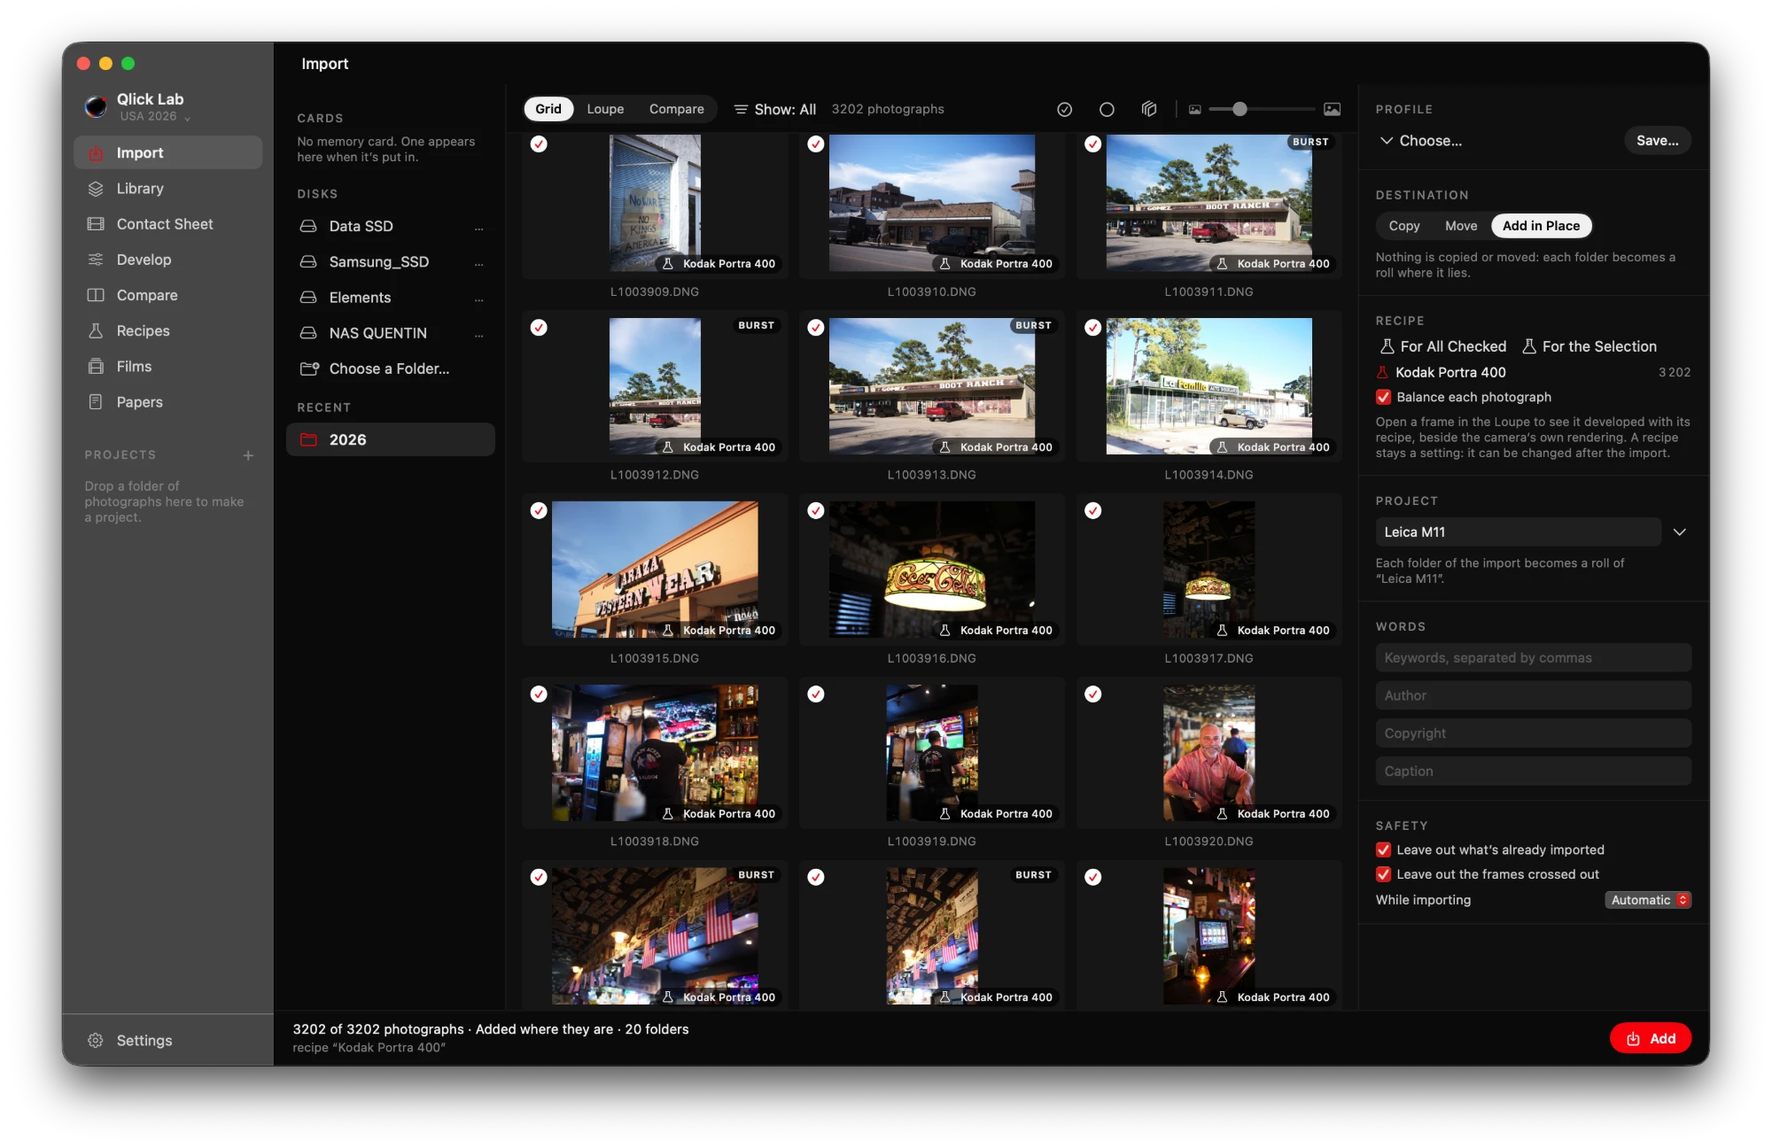
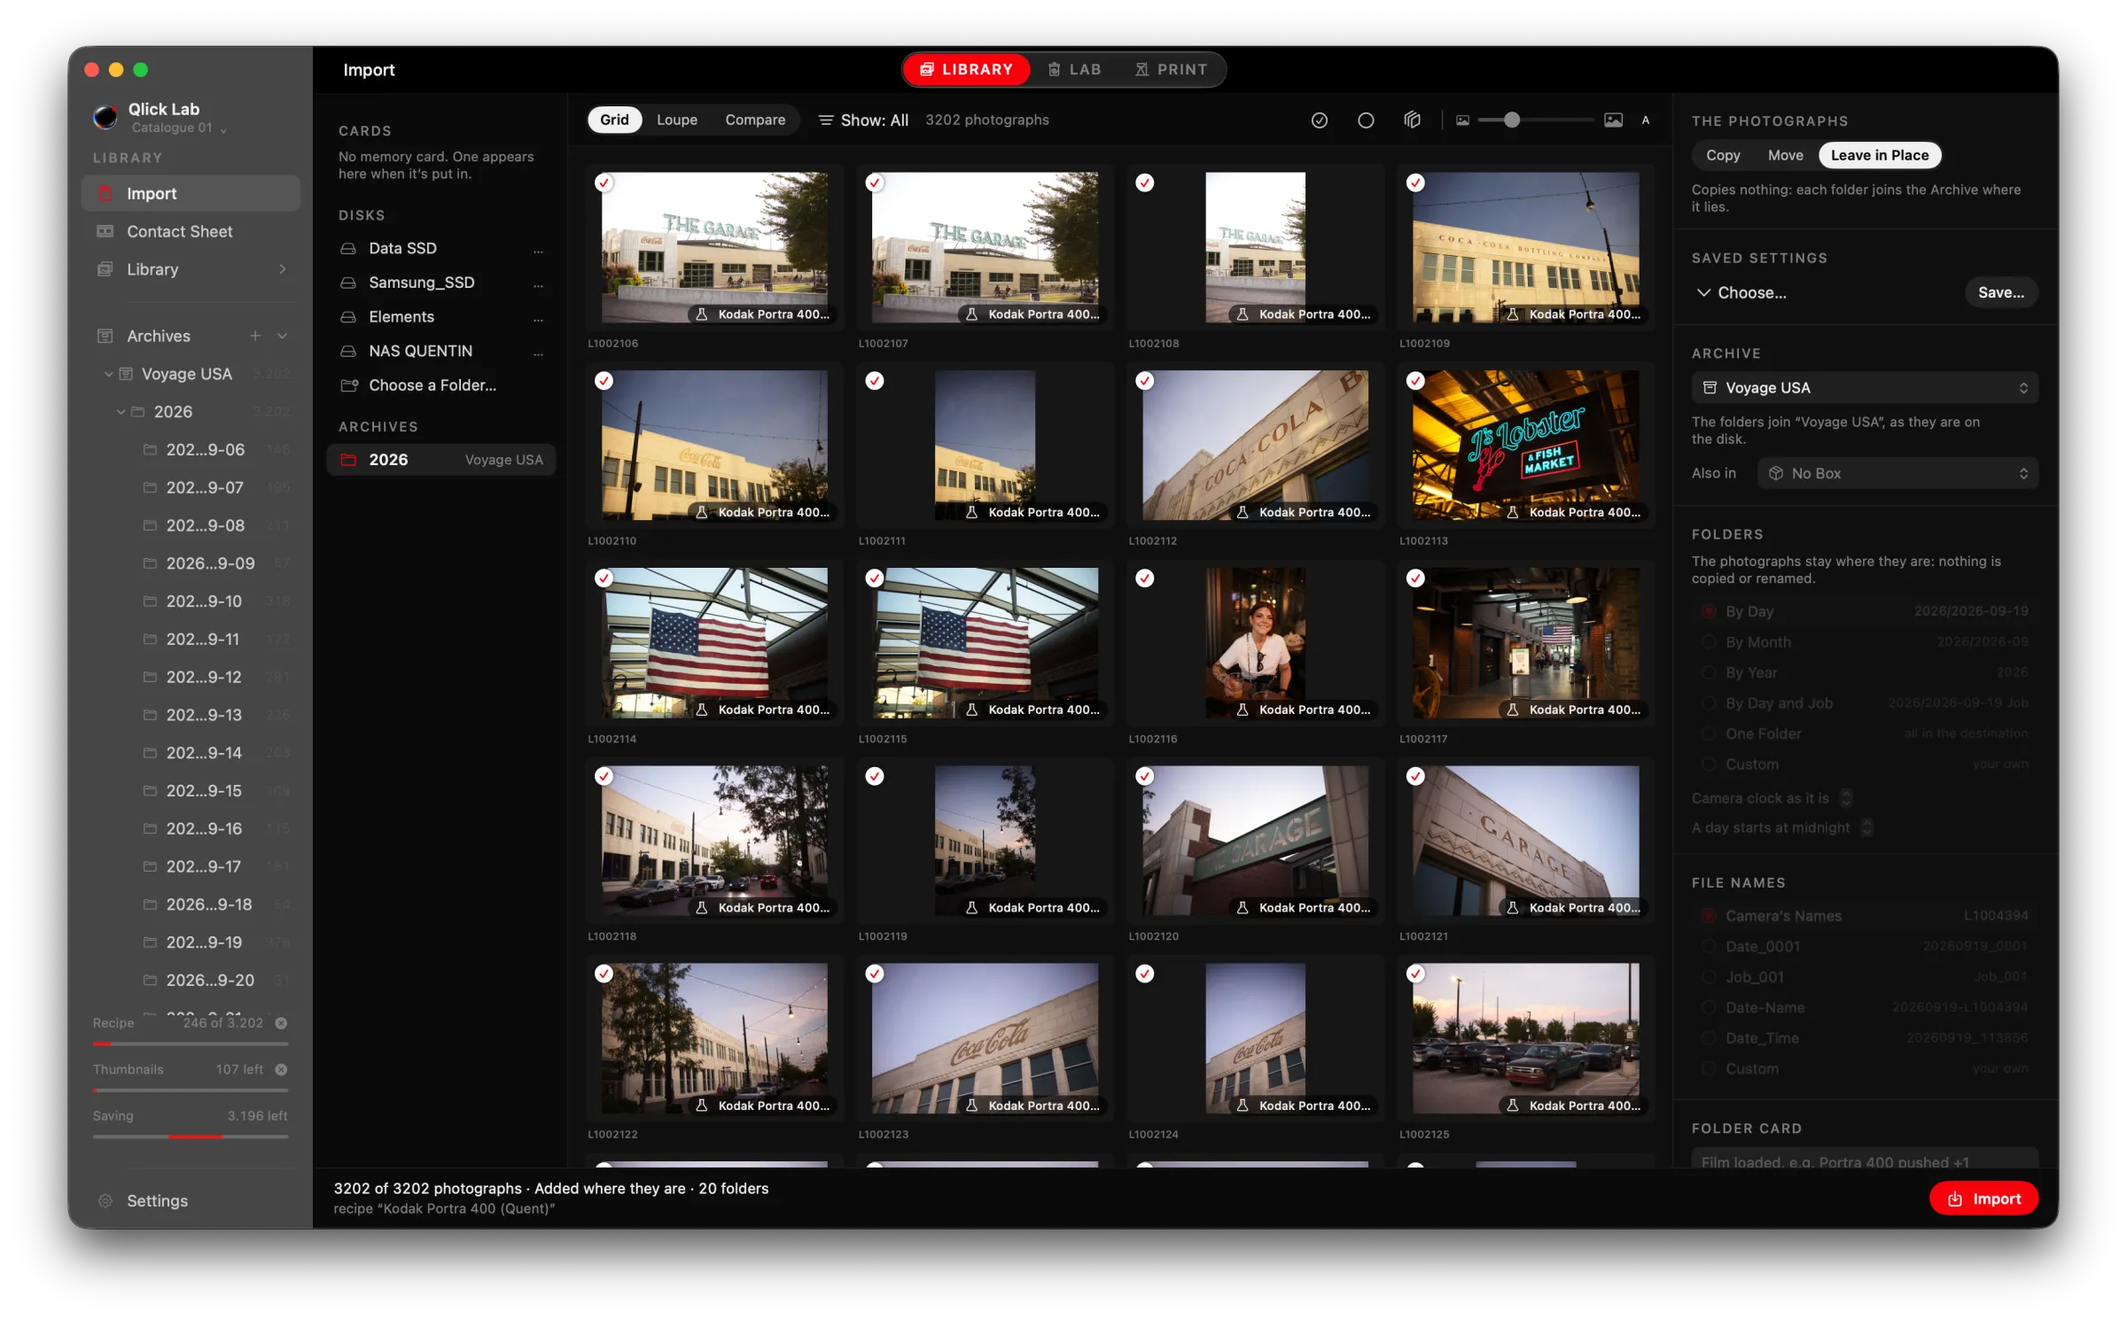
Qlick Lab 0.2.0: the README redone for the three parts, the Library's catalogues, Archives, Boxes and Rolls, with new screenshots (Liquid Glass and solid surfaces); the changelog

Changed region(s): [[0.031, 0.0309, 0.992, 0.9568]]

diff --git a/README.md b/README.md
@@ -5,8 +5,8 @@
 <h1 align="center">Qlick Lab</h1>
 
 <p align="center">
-  <b>Develop your digital photographs as if they were film.</b><br>
-  A free, open-source darkroom for macOS.
+  <b>A film lab for your digital photographs.</b><br>
+  Free and open source, for macOS.
 </p>
 
 <p align="center">
@@ -17,65 +17,145 @@
 </p>
 
 <p align="center">
-  <img src="docs/screenshots/develop.webp" alt="Qlick Lab developing a Leica M11 DNG on Kodak Portra 400, with the roll's marked frames in the film strip below">
+  <img src="docs/screenshots/develop.webp" alt="Qlick Lab developing a Leica M11 DNG on Kodak Portra 400, printed on Kodak Portra Endura paper">
 </p>
 
-Qlick Lab treats each digital photograph like a frame of film. It doesn't lay a filter on top. It
-**develops the picture**: the light goes through a simulated film stock (its dyes, grain and halation), is printed on a
-simulated paper, and comes out looking printed, not "filtered to look like it".
+Qlick Lab develops your digital photographs the way a film lab develops negatives. It doesn't lay a filter over
+the picture: the light of each RAW file goes through a simulated film stock (its dyes, its grain, its halation), is
+printed on a simulated paper, and comes out looking like a print. The simulation is spectral, built from the
+manufacturers' published data, and runs on the Mac's GPU.
 
-The film simulation is [spektrafilm](https://github.com/andreavolpato/spektrafilm), Andrea Volpato's spectral model of
-film and paper, running on the GPU. Around it, Qlick Lab is built like a real lab: you load rolls, mark the contact
-sheet with a red grease pencil, compare frames, develop the keepers and print.
+Around that engine, the app is organised like a real lab, from the roll that comes in to the print that goes out:
+you load your rolls, mark the contact sheet with a red grease pencil, develop the keepers and print.
 
-## What it does
+**What it is not:** a general photo editor. There are no layers, no masks and no retouching brushes. Qlick Lab does
+one thing, turning digital RAW files into film, and keeps the gestures of a physical lab while doing it.
+
+## Three parts: Library, Lab, Print
+
+Everything in the app belongs to one of three parts, chosen with the switch at the top of the window
+(**⌘1**, **⌘2**, **⌘3**). The sidebar shows only what the part needs, and each part comes back to where you left it.
+
+| Part | What happens there |
+|---|---|
+| **Library** | Import, the contact sheet, the Archives and the Boxes: bringing photographs in, sorting and marking them. |
+| **Lab** | Develop, Compare, Recipes and Stocks: choosing a film and a paper, and developing. |
+| **Print** | Export: the photograph as it will be printed, its colour space, its size, and the file. |
+
+From Develop, **G** (or the toggle at the top of the toolbar) switches to the contact sheet of what you're working
+on, and back.
+
+<p align="center">
+  <img src="docs/screenshots/contact-sheet.webp" width="32%" alt="Library: the roll Road 66 as a contact sheet, frames circled and crossed out in red pencil">
+  <img src="docs/screenshots/develop.webp" width="32%" alt="Lab: developing a frame on Kodak Portra 400">
+  <img src="docs/screenshots/print.webp" width="32%" alt="Print: the export panel with the colour space, the gamut and the image size">
+</p>
+
+## The Library: catalogues, Archives, Boxes and Rolls
+
+Your photographs stay where they are on your disks. The Library is a way of looking at them and sorting them, and
+**the app never moves, renames or deletes a photograph** on its own. The two exceptions are both explicit: an import
+that you ask to copy or move, and "Delete from Disk", which asks twice.
+
+- **A catalogue** (`.qlicklab`) holds one body of work: its Archives, its Boxes, its Rolls and its settings. One
+  catalogue is open at a time. **File › New Catalog**, **Open Catalog** and **Close Catalog** (⌥⇧⌘W) switch between
+  them, and closing one leaves the lab empty without quitting.
+- **Archives** are where the photographs live. An Archive is one subject you imported ("Voyage USA", "Leica M11"), and
+  it shows its folders exactly as they are on the disk, at every depth, kept up to date as the disk changes. It's a
+  read-only view: you never sort inside an Archive, you look at it. A disk that is unplugged or a network share that
+  stops answering is set aside without freezing the lab, and **Locate Folder…** points a folder that moved to its new place.
+- **Boxes** are where you sort. A Box gathers photographs from any Archive, and Boxes nest to any depth
+  ("USA 2026" › "Road 66"). Nothing is copied: a photograph can sit in as many Boxes as you like.
+- **Rolls** live inside Boxes and hold a sequence of frames, in your own order. A Roll can carry a film stock or a
+  recipe for all its frames. A **Smart Roll** fills itself from rules (rating, film, camera, lens, ISO, dates,
+  keywords…).
+
+Everything is sorted by drag and drop. Photographs dragged from one Box to another move, and **⌥** copies them. A
+folder of an Archive dropped on a Box becomes a Roll. Each gesture says what it will do while you drag and is undone
+with one ⌘Z.
+
+<p align="center">
+  <img src="docs/screenshots/boxes.webp" alt="The Box USA 2026, with the Smart Roll Leica M11 and the Roll Road 66 as film cartridges">
+</p>
+
+### Import
+
+- From a memory card, a disk or a network share. Choose to **Copy**, **Move** or **Leave in Place**: in place, the
+  folders simply join an Archive as they are.
+- Every import goes into an Archive (an existing one or a new one), and can also go into a Box or a Roll.
+- Folders by day, month, year or your own pattern, file names from the camera or your own pattern, with an example
+  line before anything is written. Duplicates and unreadable files are flagged.
+- A recipe can be applied as the photographs come in. They are there at once, and their previews are made in the
+  background.
+- A journal keeps the import safe if it's interrupted.
+
+<p align="center">
+  <img src="docs/screenshots/import.webp" width="49%" alt="Import: 3,202 photographs left in place, joining the Archive Voyage USA with a recipe">
+  <img src="docs/screenshots/import-boxes.webp" width="49%" alt="The same import, with the Boxes USA 2026, Leica M11 and Road 66 in the sidebar">
+</p>
 
 ### The contact sheet
-- Your folder becomes a **roll of 135 film**: strips with sprocket holes, frame numbers and the stock's name on the edge.
-- **Mark it like a photographer does**: click to circle a frame in red pencil, ⌥-click to cross it out, drag to mark a
-  series. Rate 0–5, filter by picks, rejects or unrated.
-- Three layouts (film strips, tight strips, large frames with their facts), a light table, a loupe.
-- **Print it**: the sheet as a vector PDF, paginated (A4, A3, Letter, 8 × 10, 24 × 30), with or without your marks.
+
+- Each folder, Box or Roll becomes **135 film**: strips with sprocket holes, frame numbers and file names on the edge.
+- **Mark it as a photographer does**: click to circle a frame in red pencil, ⌥-click to cross it out, drag across a
+  series. P / X / U to pick, reject or unmark, 0–5 to rate, ⇧ with a key to mark and move on.
+- Search by field (`rating:>=3 film:portra camera:m11 iso:>800 date:2026-09`), filters by period, film, camera and lens,
+  keywords, titles and captions, stacks of bursts.
+- Four layouts (Classic, Compact, Detail, Grid), a light table and a loupe.
+- **Print the sheet**: a vector PDF on A4, A3, Letter, 8 × 10 or 24 × 30, black or white paper, with your pencil marks.
+- **Remove…** takes photographs out of a Box or out of the catalogue. Files are deleted from the disk only if you say
+  so, twice.
 
 <p align="center">
-  <img src="docs/screenshots/contact-sheet.webp" width="49%" alt="A roll as a contact sheet, frames circled and crossed out in red pencil">
-  <img src="docs/screenshots/print.webp" width="49%" alt="Printing the contact sheet to PDF">
+  <img src="docs/screenshots/print-contact-sheet.webp" alt="A printable contact sheet of the roll Road 66, with its red pencil marks">
 </p>
 
-### Development
-- **[62 film stocks and papers](#film-stocks-and-papers)**: Portra, Ektar, Gold, Tri-X, Velvia, CineStill and more, each with its own
-  measured curves, where it comes from and how far it can be trusted. Every stock shows a preview developed on *your*
-  photograph.
-- Exposure, grain, halation, glare, DIR couplers, the print and the scan, crop, straighten, 35 mm borders.
-- **Every slider is live**: the GPU redraws as you move it.
-- **Recipes**: a look saved once, applied to a whole selection in one step. They use spektrafilm's own preset format.
-- **Versions**: several interpretations of one photograph, side by side. None replaces the others.
-- **Compare**: neighbouring frames, stocks, recipes, versions or before/after, with linked zoom and pan. Each view is
-  a real development, not an approximation.
+## The Lab: developing
+
+- **[62 film stocks and papers](#film-stocks-and-papers)**: Portra, Ektar, Gold, Tri-X, Velvia, CineStill and more,
+  each with its measured curves, where it comes from and how far it can be trusted. Every stock shows a preview
+  developed on *your* photograph.
+- **The film card** at the top of the panel: the film, the paper it's printed on, the recipe.
+- **Develop**: white balance, brightness matched to the camera, tone, colour, detail, crop and Auto Straighten.
+- **Emulsion**: the film's curves and couplers, grain, halation from the highlights, diffusion, chromatic aberration.
+  Grain and halation have their own presets.
+- **Every slider is live**: the GPU redraws as you move it, and the next frames are developed ahead as you step through
+  a roll.
+- **Recipes**: a look saved once, applied to a whole selection, a Roll or an import in one step. Share them as a
+  `.qlickrecipes` bundle.
+- **Versions** of one photograph side by side, and **Compare** across frames, stocks, recipes or before/after, with
+  linked zoom.
 
 <p align="center">
-  <img src="docs/screenshots/develop-inspector.webp" alt="Developing on Kodak Portra 400: white balance, brightness, tone and colour in a Liquid Glass panel">
+  <img src="docs/screenshots/emulsion-grain.webp" alt="The Emulsion tab at 53 %: Kodak Portra 400's grain on an old car">
 </p>
 
-### Library, import and export
-- **Catalogues, Archives and Boxes**: an Archive shows its folders as they are on the disk; Boxes gather photographs
-  from any Archive. Nothing is copied and no original is ever changed.
-- **Import** from a memory card, with a journal that survives an interruption.
-- RAW files from most cameras (Apple's RAW decoder and rawler), including Leica DNG, plus JPEG, TIFF and PNG.
-- Export 8- or 16-bit JPEG, TIFF or PNG with an ICC profile, one at a time or in batches. The rating goes into the
-  file's XMP. Film looks can also go out as a `.cube` LUT.
+## Print
+
+Print shows the photograph as it will be printed. You choose the file (JPEG, TIFF or PNG, 8 or 16 bits), the colour
+space (sRGB, Display P3, Adobe RGB, ProPhoto RGB) with a soft proof and a gamut chart, the size and the border.
+The rating goes into the file's XMP. A film look can also go out as a `.cube` LUT.
+
+## Liquid Glass or solid black
+
+On macOS 26 the panels, the sidebar and the part switch are made of **Liquid Glass**, so the photograph shows
+through. If you'd rather see nothing but the picture, **Settings › Interface › Solid surfaces** puts them on the
+lab's black with a hairline edge.
 
 <p align="center">
-  <img src="docs/screenshots/library.webp" width="49%" alt="The library: a project of twenty rolls, each shown as a strip of film">
-  <img src="docs/screenshots/import.webp" width="49%" alt="Importing 3,202 photographs with a recipe, as rolls of a project">
+  <img src="docs/screenshots/develop-glass.webp" width="49%" alt="Liquid Glass: the sidebar and the panel let the photograph show through">
+  <img src="docs/screenshots/develop.webp" width="49%" alt="Solid surfaces: the sidebar and the panel on solid black">
 </p>
+<p align="center"><sub>Left: Liquid Glass. Right: solid surfaces.</sub></p>
 
-### A Mac app
-- Native AppKit and SwiftUI, with **Liquid Glass** panels on macOS 26.
-- Keyboard first: P / X / U to mark, 0–5 to rate, Space for a large view, C to compare. Every key can be changed
-  in Settings › Shortcuts.
+## A Mac app
+
+- Native AppKit and SwiftUI over a Rust engine, on the GPU through Metal.
+- Keyboard first, and every key can be changed in **Settings › Shortcuts**.
+- Long work (thumbnails, previews, recipes on thousands of frames) runs in the background, with its progress in the
+  sidebar and a Stop button.
 - **Your photos stay on your Mac.** No account, no cloud, no tracking, no analytics. The app opens the network only
-  when you click a link (GitHub, PayPal).
+  when you click a link (GitHub, PayPal) or check for updates.
 
 ## Film stocks and papers
 
@@ -139,9 +219,10 @@ New versions are announced on the [releases page](https://github.com/Kede0111/ql
 
 - Each photograph's marks, rating and development live in a small `.qlick` file beside it (`IMG_0412.CR3.qlick`).
   They travel with the folder, and your originals are never written to.
-- A catalogue is a `.qlicklab` package: the Archives and Boxes, as small JSON files. The photographs stay where
-  they are.
-- Both are plain, documented JSON. They belong to Qlick Lab, but nothing is locked in.
+- Each folder of an Archive can carry a `Roll.qlickroll` card (film, camera, notes), so it keeps them if you move it.
+- A catalogue is a `.qlicklab` package: the Archives, Boxes, Rolls and their order, as small JSON files. The
+  photographs stay where they are.
+- All of them are plain, documented JSON. They belong to Qlick Lab, but nothing is locked in.
 
 ## Support the project
 
@@ -193,7 +274,7 @@ The details are in [docs/architecture.md](docs/architecture.md); how to propose 
 
 | Folder | What's in it |
 |---|---|
-| `macos/Sources/QlickLab` | The app, one folder per role: `App`, `Library`, `Import`, `ContactSheet`, `Develop`, `Compare`, `Recipes`, `Export`, `Engine`, `Files`, `Design` |
+| `macos/Sources/QlickLab` | The app, one folder per role: `App`, `Library`, `Import`, `ContactSheet`, `Develop`, `Compare`, `Recipes`, `Print`, `Export`, `Engine`, `Files`, `Design` |
 | `crates/` | The engine in Rust: spektrafilm's model, its GPU pipeline (wgpu/Metal), RAW and colour I/O |
 | `data/` | Film and paper profiles, spectral tables, borders |
 | `vendor/rawler` | A patched copy of rawler, the RAW decoder |
@@ -225,10 +306,20 @@ owners. Qlick Lab is not affiliated with any of them: the names only say which p
 <details>
 <summary><b>En français</b></summary>
 
-Qlick Lab est un laboratoire argentique pour Mac, libre et gratuit. Il développe vos photos numériques comme des
-négatifs : la lumière traverse un film simulé (colorants, grain, halo), elle est tirée sur un papier simulé, et le
-résultat a l'air tiré, pas filtré. Vous chargez vos dossiers comme des rouleaux et marquez la planche-contact au
-crayon gras rouge. Ensuite vous comparez, vous développez et vous imprimez.
+Qlick Lab est un laboratoire argentique pour Mac, libre et gratuit. Il développe vos photos numériques comme un
+labo développe des négatifs : la lumière de chaque fichier RAW traverse un film simulé (colorants, grain, halo), elle
+est tirée sur un papier simulé, et le résultat a l'air d'un tirage, pas d'un filtre. La simulation est spectrale,
+construite à partir des données publiées par les fabricants.
+
+L'application est organisée en trois parties, comme un vrai labo :
+
+- **Library** : l'import, la planche-contact, les Archives (vos dossiers tels qu'ils sont sur le disque, jamais
+  déplacés) et les Boxes (où vous triez, avec des Rolls et des Smart Rolls). Un catalogue ouvert à la fois.
+- **Lab** : le développement, la comparaison, les recettes et les films.
+- **Print** : l'export, avec l'espace colorimétrique, l'épreuvage et la taille.
+
+Vous marquez la planche-contact au crayon gras rouge, vous développez les meilleures images et vous les tirez. Les
+panneaux sont en Liquid Glass sur macOS 26, ou en noir plein avec **Réglages › Interface › Solid surfaces**.
 
 Téléchargez le DMG dans les [Releases](https://github.com/Kede0111/qlick-lab/releases/latest). Au premier lancement,
 autorisez l'app dans **Réglages Système › Confidentialité et sécurité › Ouvrir quand même**. Si elle vous plaît, vous

diff --git a/CHANGELOG.md b/CHANGELOG.md
@@ -1,5 +1,37 @@
 # Changelog
 
+## 0.2.0 — the lab in three parts
+
+A new version of the whole lab. Your `.qlick` sidecars and catalogues from 0.1.x are read and converted once, with
+nothing moved on the disk.
+
+- **Library · Lab · Print**: a switch at the top of the window (⌘1, ⌘2, ⌘3) chooses the part; the sidebar shows only
+  what it needs. G goes from Develop to the contact sheet and back.
+- **Catalogues, one at a time**: File › New, Open and Close Catalog (⌥⇧⌘W). Opening another closes everything of the
+  one before; closing leaves the lab empty without quitting.
+- **Archives**: your folders exactly as they are on the disk, at every depth, kept up to date. Nothing is sorted
+  there and nothing is ever moved. Locate Folder… finds a folder that moved; a disk unplugged or a network share
+  that stops answering is set aside without freezing the lab.
+- **Boxes and Rolls**: Boxes gather photographs from any Archive and nest to any depth; Rolls hold frames in your own
+  order and can carry a film or a recipe; Smart Rolls fill themselves from rules. Sorted by drag and drop (⌥ copies),
+  every gesture undone with ⌘Z. A Box shows its Boxes and Rolls on a shelf, as archive boxes and film cartridges.
+- **Import**: Copy, Move or Leave in Place; always into an Archive, optionally a Box or a Roll; folders and file names
+  by pattern, with an example; duplicates and unreadable files flagged; a folder card (film, camera, notes).
+- **Finding photographs**: All Photographs, Last Import, Picks, By Date; search by field (`film:portra iso:>800`),
+  filters, keywords, title and caption, burst stacks, Auto Advance.
+- **Remove…**: one dialog to take photographs out of a Box or of the catalogue. Deleting files from the disk is a
+  separate choice that asks twice. Move to Trash is gone.
+- **Develop**: the film card (film, paper, recipe) folds to one line; Develop and Emulsion tabs, sections that fold;
+  Auto Straighten in the engine (plumb lines, then the horizon).
+- **Recipes and Stocks**: favourites and hidden films, papers and recipes; several recipes shared as one
+  `.qlickrecipes` file.
+- **Print**: the photograph as it will be printed, the output colour space with a soft proof, out-of-gamut marks and a
+  gamut diagram, image size and border. The printable contact sheet keeps your red pencil marks.
+- **The look**: the lab's own fine-line pictograms, QLab's red, Liquid Glass panels, or Settings › Interface ›
+  Solid surfaces for solid black. Every selected frame wears the red pencil; View › Pencil Marks hides them.
+- **Speed**: the next frames are developed ahead as you step through a roll (a frame shows in 5 ms instead of 46 ms),
+  and less memory is used.
+
 ## 0.1.4
 
 - **Halation from the highlights**: only bright lights feed it now, leaving a red rim on the darker side of their
